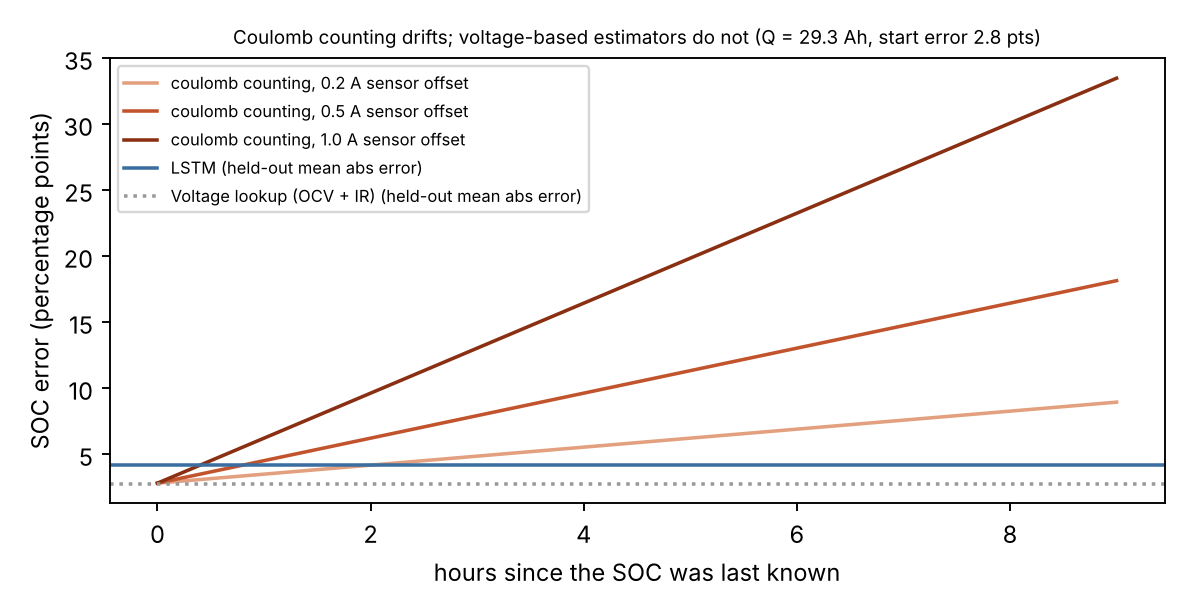
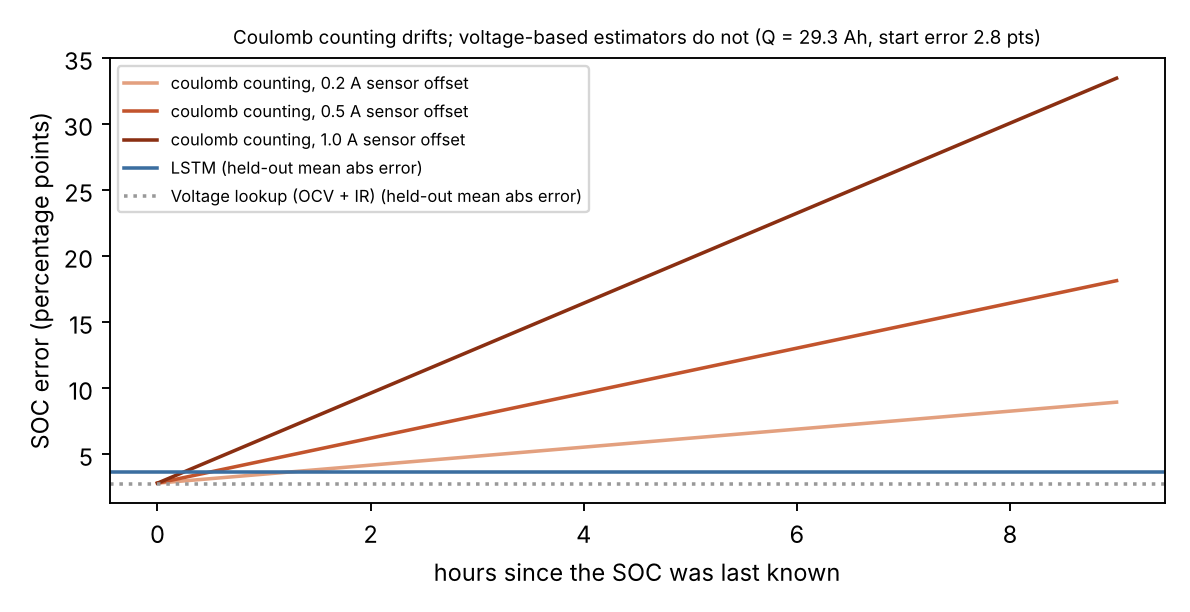
LSTM SOC: lookup SOC as input, 3-network ensemble (RMSE 5.1 -> 4.6); README architecture

Changed region(s): [[0.0933, 0.7451, 0.995, 0.7761]]

diff --git a/Pre-WSC/sasol_analysis/lstm_soc/soc_lstm.py b/Pre-WSC/sasol_analysis/lstm_soc/soc_lstm.py
@@ -38,7 +38,8 @@ DATA, RES = HERE / "data", HERE / "results"
 DT_H = 10.0 / 3600.0
 GAP_BREAK_S = 300
 WINDOW = 60                       # 60 x 10 s = 10 min of history
-FEATS = ["v_cell", "v_ir", "i_net", "i_bus", "t_cell"]   # v_ir = v_cell - R i_net (physics feature)
+FEATS = ["v_cell", "v_ir", "soc_lu", "i_net", "i_bus", "t_cell"]   # v_ir = v - R i; soc_lu = OCV^-1(v_ir)
+N_SEEDS = 3                       # ensemble: average of 3 independently initialised networks
 DAYS = [1, 2, 3, 5, 6, 7, 8]      # Day 4: trailered (no discharge), used for training only
 SEED = 0
 
@@ -211,6 +212,7 @@ def main():
     Q, R, rms_mv, nseg = fit_reference(days)
     for d in days.values():
         d["v_ir"] = d.v_cell - R * d.i_net
+        d["soc_lu"] = ocv_inv(d.v_ir.to_numpy())
     print(f"reference fit: Q = {Q:.1f} Ah, R = {1000 * R:.2f} mOhm (per series cell, pack current), "
           f"voltage RMS {rms_mv:.1f} mV over {nseg} segments")
     pd.DataFrame([dict(Q_ah=Q, R_ohm=R, v_rms_mv=rms_mv, segments=nseg)]).to_csv(RES / "reference_fit.csv", index=False)
@@ -219,16 +221,18 @@ def main():
     t0 = time.time()
     for test in DAYS:
         tr = [days[k] for k in days if k != test]
-        p, mu, sd = train(tr)
-        ph, muh, sdh = train(tr, hybrid=True)
+        global SEED
+        models = []
+        for SEED in range(N_SEEDS):
+            models.append(train(tr))
         d = days[test]
+        ens = lambda dd: np.mean([run_lstm(p, mu, sd, dd) for p, mu, sd in models], axis=0)
         y = d.soc_ref.to_numpy()
         dc = corrupt(d)
         dc["v_ir"] = dc.v_cell - R * dc.i_net
-        est = {"Hybrid: voltage lookup + LSTM correction": run_lstm(ph, muh, sdh, d, hybrid=True),
-               "Hybrid, corrupted current": run_lstm(ph, muh, sdh, dc, hybrid=True),
-               "LSTM": run_lstm(p, mu, sd, d),
-               "LSTM, corrupted current": run_lstm(p, mu, sd, dc),
+        dc["soc_lu"] = ocv_inv(dc.v_ir.to_numpy())
+        est = {"LSTM": ens(d),
+               "LSTM, corrupted current": ens(dc),
                "Coulomb counting (live start)": coulomb_live(d, Q),
                "Coulomb counting, corrupted current": coulomb_live(d, Q, offset=0.5, gain=1.02),
                "Voltage lookup (OCV + IR)": ocv_inv(d.v_cell.to_numpy() - R * d.i_net.to_numpy())}
@@ -262,7 +266,7 @@ def main():
     order = list(S.index)
     piv = M.pivot(index="test_day", columns="method", values="rmse")[order]
     x = np.arange(len(DAYS)); w = 0.8 / len(order)
-    cols = {"Hybrid: voltage lookup + LSTM correction": "#1f4e8c", "Hybrid, corrupted current": "#7a9cc6", "LSTM": "#6f8fb3", "LSTM, corrupted current": "#9bb7d4", "Coulomb counting (live start)": "#e3a07f",
+    cols = {"LSTM": "#3b6ea0", "LSTM, corrupted current": "#9bb7d4", "Coulomb counting (live start)": "#e3a07f",
             "Coulomb counting, corrupted current": "#c2542d", "Voltage lookup (OCV + IR)": "#999"}
     for i, mth in enumerate(order):
         ax.bar(x + (i - len(order) / 2 + .5) * w, piv[mth], w, label=mth, color=cols[mth])

diff --git a/Pre-WSC/sasol_analysis/lstm_soc/README.md b/Pre-WSC/sasol_analysis/lstm_soc/README.md
@@ -2,7 +2,7 @@
 
 Run (from this folder): `pip install jax pandas scipy matplotlib`, then
 `python dataset.py` (builds `data/day*.csv` from the Sasol logs, ~1 min) and
-`python soc_lstm.py` (reference fit, leave-one-day-out training of 7 folds, figures, ~6 min on CPU).
+`python soc_lstm.py` (reference fit, leave-one-day-out training of 7 folds x 3 networks, figures, ~10 min on CPU).
 JAX is used because it installs CPU-only everywhere (Windows included); the LSTM cell is written out
 explicitly (`lstm_forward`) and trained with Adam.
 
@@ -26,22 +26,38 @@ continuous log segment (logger gaps lose the current), Q and R fitted over all d
 Result: **Q = 29.3 Ah, R = 1.7 mOhm per series cell group, 41 mV RMS voltage fit** (results/reference_fit.csv).
 Q is consistent with the 588 Wh module rating (588 Wh / 6 cells / 3.6 V = 27 Ah).
 
+## Architecture
+- Input: the last 60 bins (10 min at 10 s) of 6 features: mean cell voltage, IR-corrected cell voltage
+  v - R i, the voltage-lookup SOC OCV^-1(v - R i), net pack current, motor current, cell temperature
+  (z-scored with training-day statistics).
+- One LSTM layer, 32 hidden units (forget-gate bias 1), linear output = SOC now. ~5k parameters.
+- Loss: mean squared error on SOC/100; Adam, lr 3e-3 halved at 60 % and 85 % of 40 epochs, batch 256.
+- Ensemble: 3 networks with different random initialisation, outputs averaged.
+- Validation: leave-one-day-out (train on 7 days incl. charging-only Day 4, test on the 8th), 7 folds.
+- Tried and dropped: raw voltages only (5.9 RMSE), without the lookup input (5.1), residual "hybrid" that
+  learns only a correction to the lookup (5.5).
+
 ## Results (leave-one-day-out, SOC percentage points, results/summary.csv)
 | estimator | RMSE | mean abs | needs start SOC | drifts with sensor offset |
 |---|---|---|---|---|
 | Voltage lookup, OCV^-1(v - R i) | 3.7 | 2.7 | no | no |
 | Coulomb counting, live start | 4.3 | 3.5 | yes | yes |
 | Coulomb counting, 0.5 A / 2 % sensor error | 4.3 | 3.6 | yes | yes |
-| **LSTM** (10 min window: v_cell, v - R i, i_net, i_bus, T) | 5.1 | 4.2 | **no** | **no** (5.14 -> 5.19 with corrupted current) |
-| Hybrid: lookup + LSTM correction | 5.5 | 4.2 | no | no |
+| **LSTM** (ensemble of 3) | 4.6 | 3.7 | **no** | **no** (4.60 -> 4.64 with corrupted current) |
+
+Per day the LSTM beats the lookup on Day 5 (2.8 vs 4.2), ties on Day 1 and loses on Days 2, 3, 7, the days that
+go below ~20 % SOC, where the training data is thin.
 
 Drift (results/coulomb_drift.csv, fig_soc_drift.png): coulomb counting starts 2.8 pts off when started from a
 loaded voltage and drifts 1.7 pts/h per 0.5 A offset, i.e. ~18 pts after a 9 h race day. The LSTM's error does
 not grow with time.
 
 ## Honest conclusion
-- On six training days the LSTM does **not yet beat** a physics voltage lookup; the reference itself is built from
-  coulomb counting and the same OCV curve, which favours those two methods structurally.
+- On this data the LSTM does **not yet beat** the physics voltage lookup on average. The main reason is the
+  reference: with no measured SOC, it is itself built from v = OCV(SOC) + R i and coulomb counting, so the voltage
+  lookup is close to the exact inverse of the reference by construction; its only error is the 41 mV model
+  residual. A learned model can only beat it by learning battery dynamics that are consistent across days, and
+  with 7 days (6 to train) that signal is small.
 - What the LSTM does show: no initial SOC needed, no drift, insensitive to current-sensor bias; worst where
   training data is thin (below ~20 % SOC; Day 7 went to 2.85 V/cell, outside the OCV table).
 - Recommended for WSC 2027: fix `Pack_Current`/`SOC_Ah` logging (true reference), log a full charge and a rest
